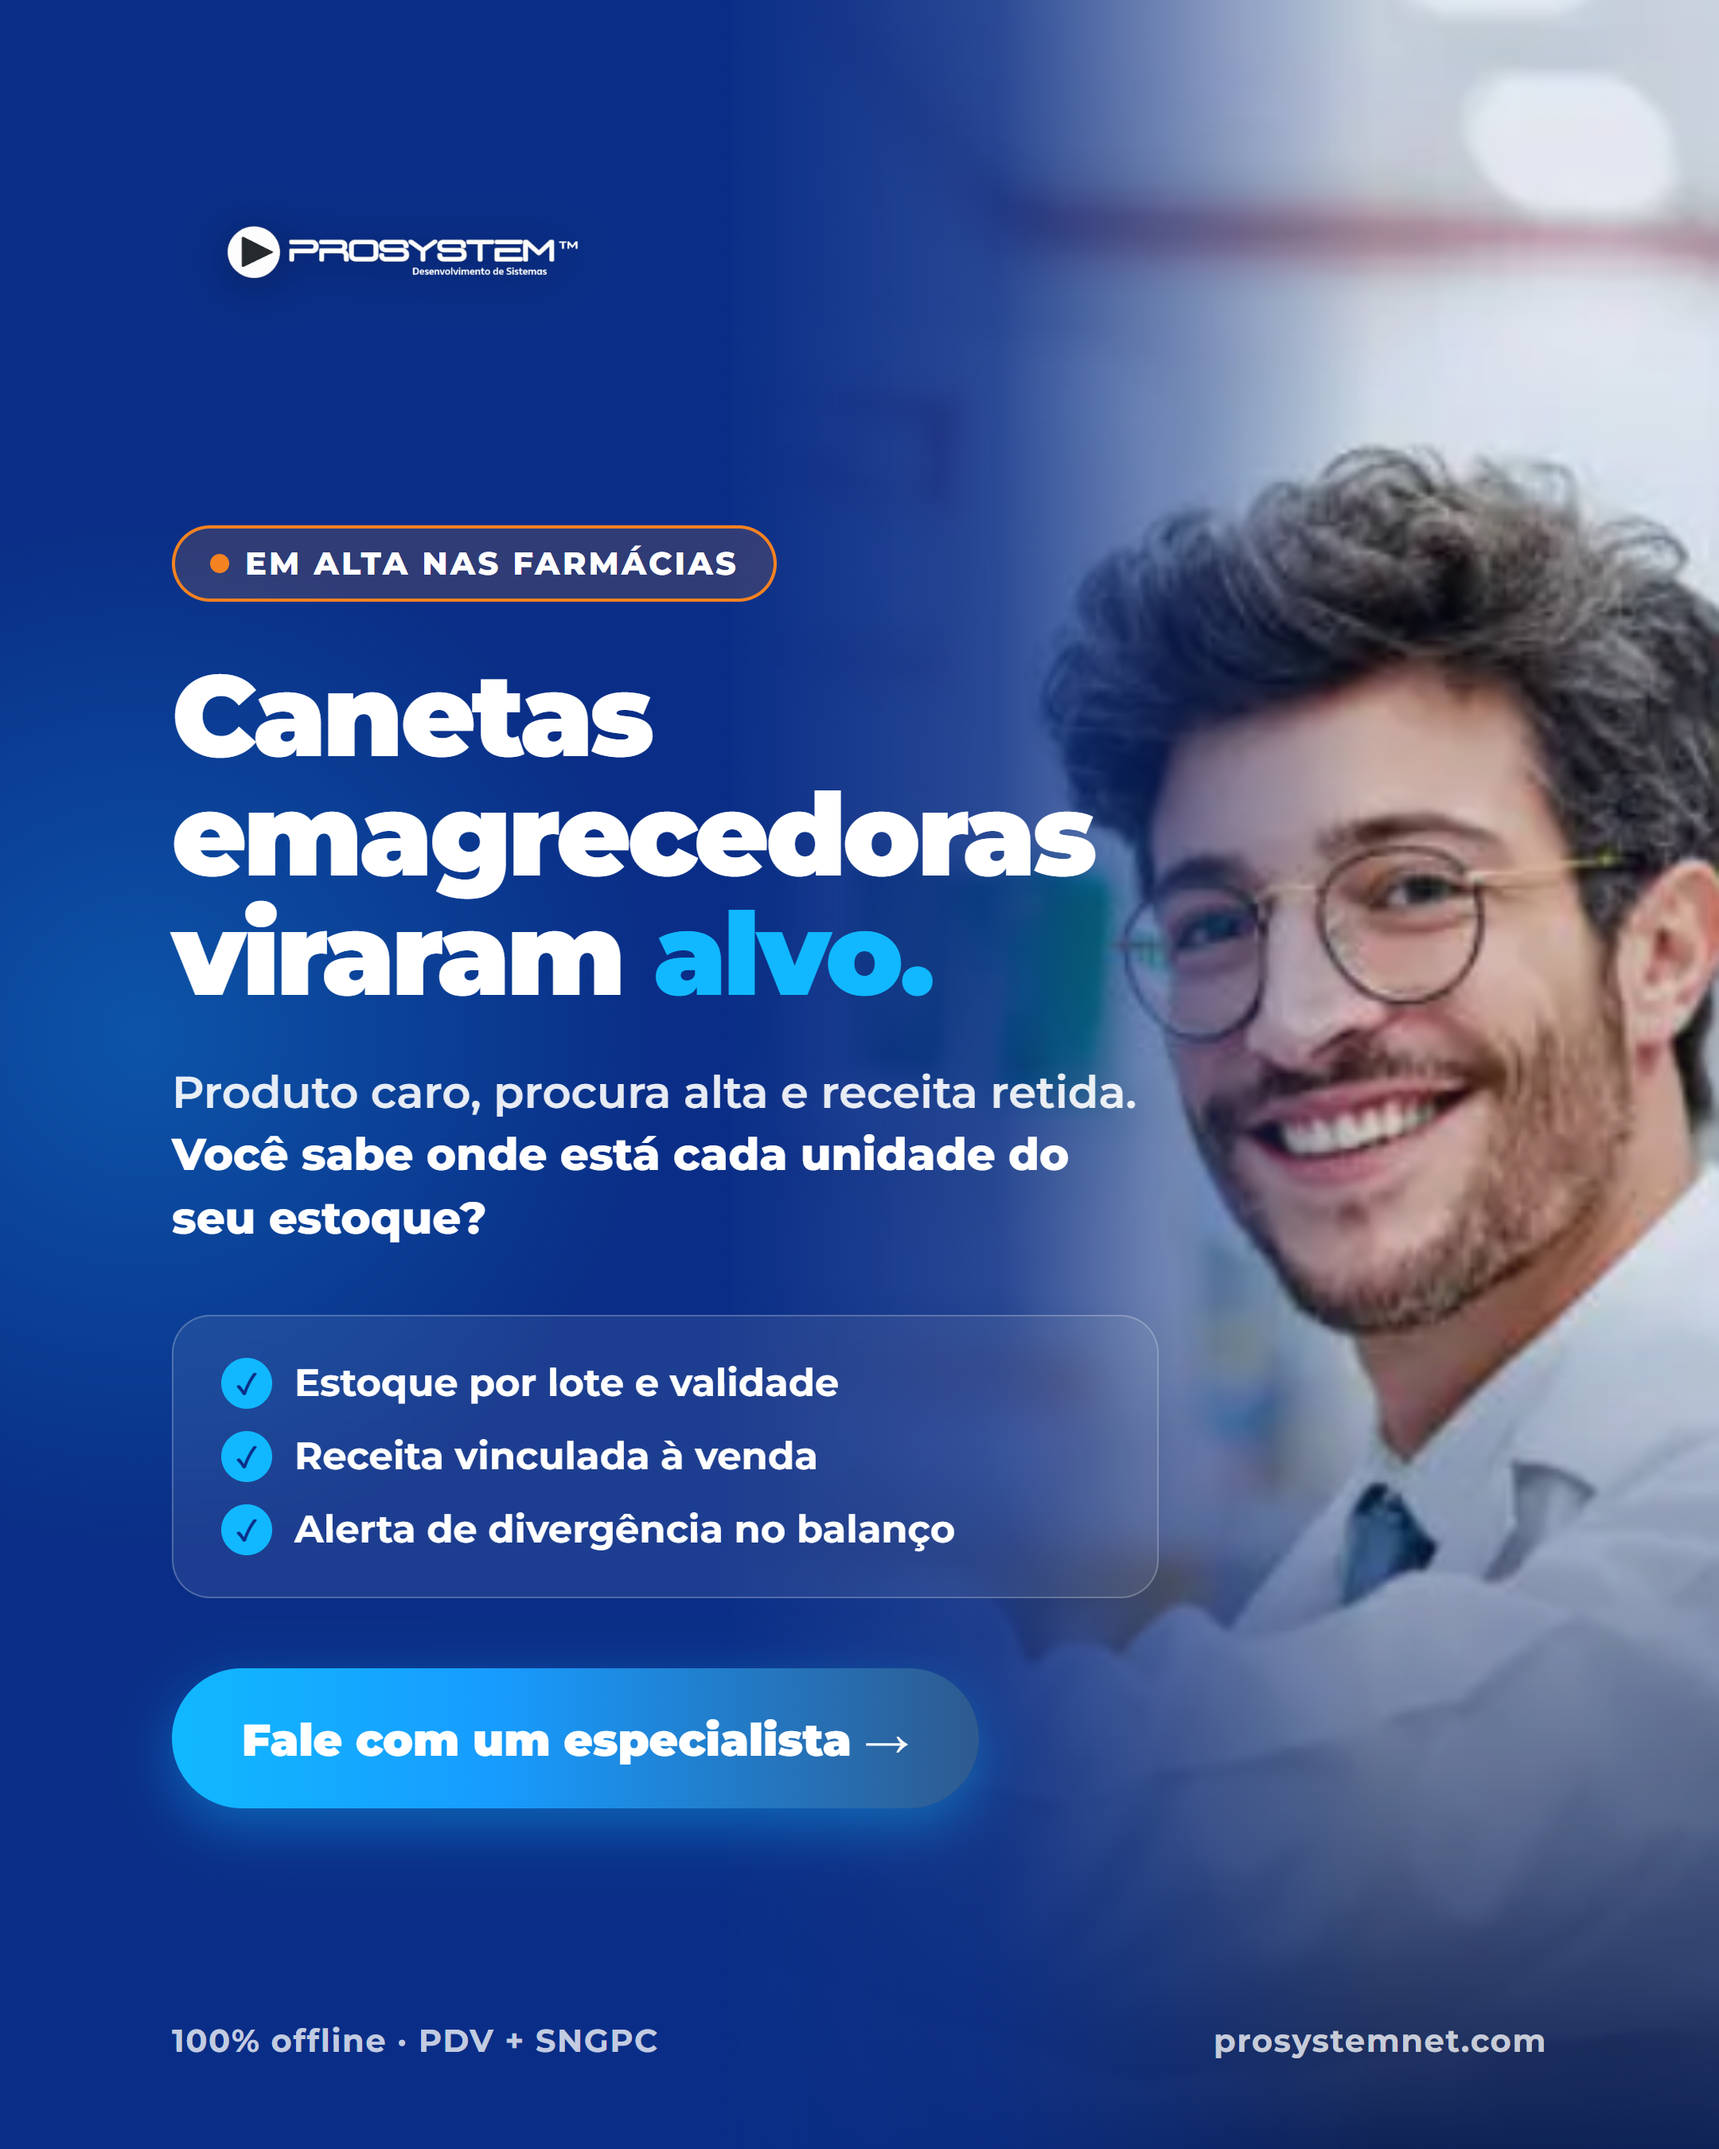
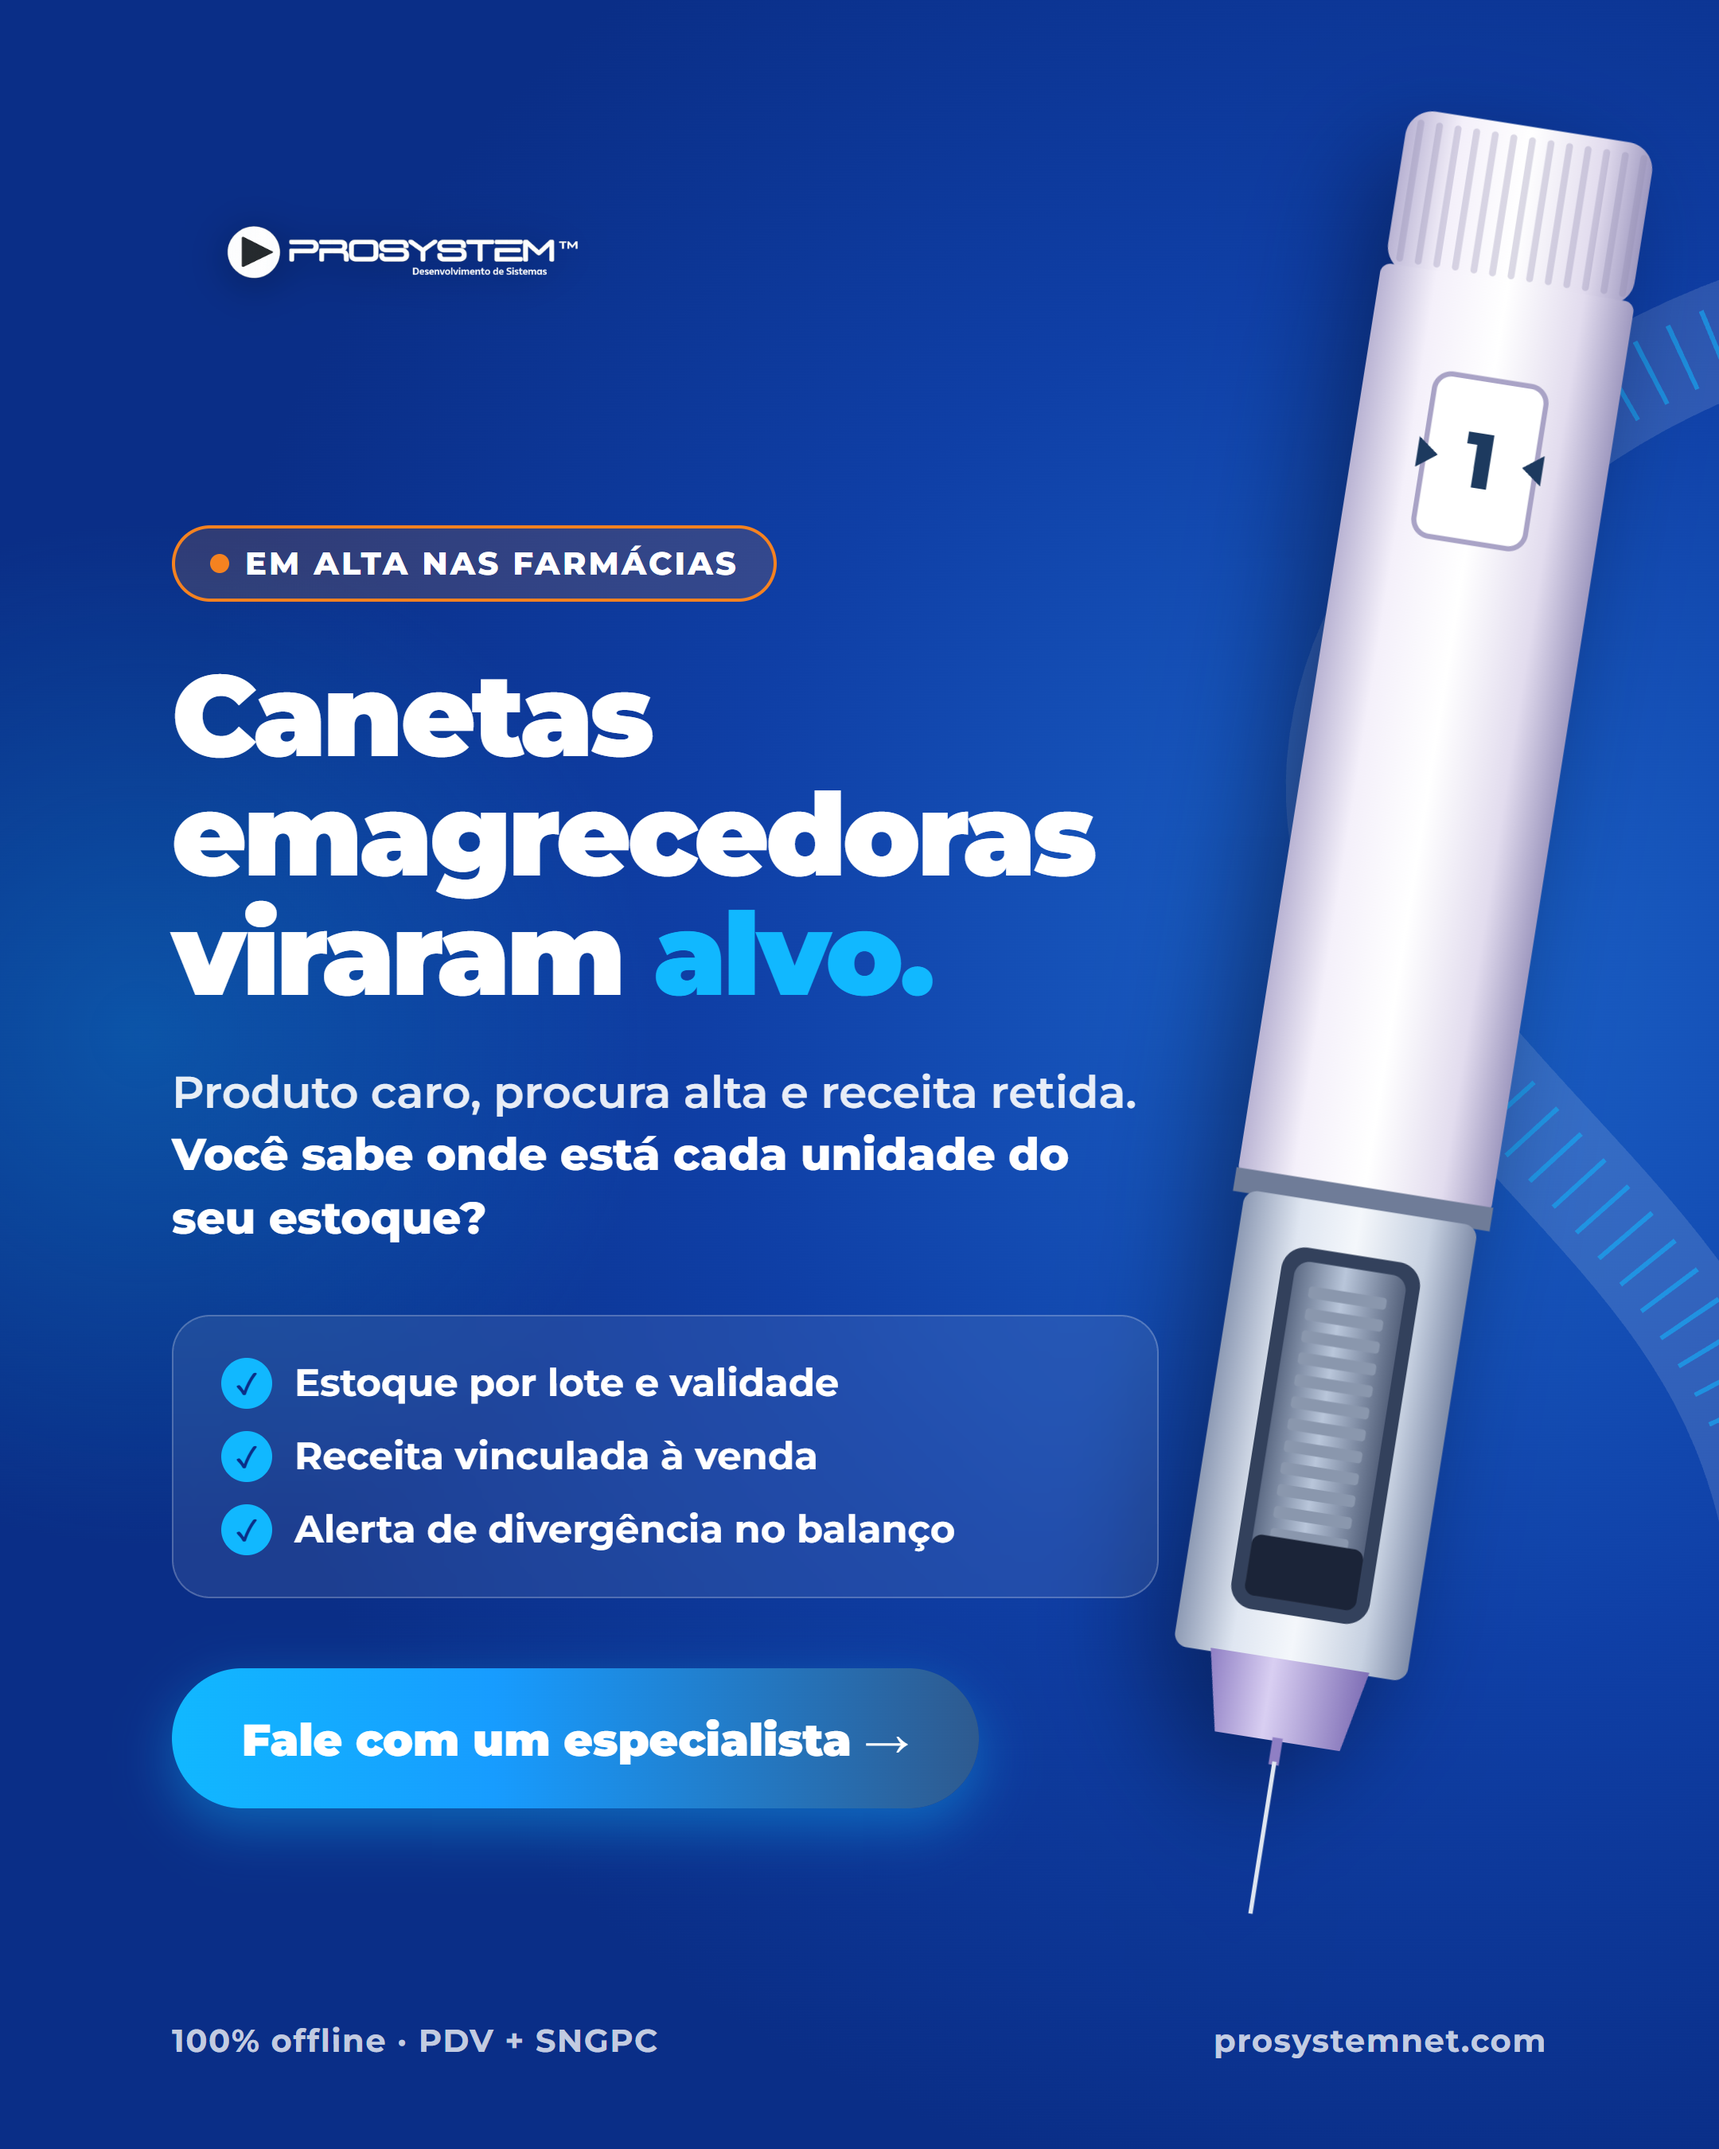
Criativo farmácia: troca foto do farmacêutico por caneta emagrecedora

diff --git a/outputs/criativos/farmacia/tendencia/canetas-emagrecedoras.html b/outputs/criativos/farmacia/tendencia/canetas-emagrecedoras.html
@@ -5,9 +5,9 @@
 *{margin:0;padding:0;box-sizing:border-box}
 body{width:1080px;height:1350px;overflow:hidden;font-family:'Montserrat',sans-serif}
 .ad{width:1080px;height:1350px;position:relative;overflow:hidden;background:#0A2E87}
-.photo{position:absolute;top:0;right:0;width:620px;height:100%;
- background:url('file:///C:/Users/prosy/Desktop/PROJETOS/AUTOMAÇÃO MKT PROSYSTEM/banco imagens/farmacia/20083715_farmaceuti.png.png') 72% center/cover no-repeat}
-.fade{position:absolute;inset:0;background:linear-gradient(90deg,#0A2E87 42%,rgba(10,46,135,.85) 58%,rgba(10,46,135,.1) 80%),linear-gradient(0deg,rgba(6,24,74,.95) 0%,transparent 40%)}
+.ad{background:radial-gradient(circle at 82% 45%,#1B63C9 0%,#0F3FA6 38%,#0A2E87 68%)}
+.tape{position:absolute;inset:0;width:1080px;height:1350px}
+.pen{position:absolute;left:772px;top:62px;height:1160px;transform:rotate(9deg);filter:drop-shadow(-18px 26px 34px rgba(3,14,50,.55))}
 .glow{position:absolute;width:700px;height:700px;border-radius:50%;left:-260px;top:300px;background:radial-gradient(circle,rgba(17,184,255,.28),transparent 65%)}
 .logo{position:absolute;top:64px;left:108px;height:200px;width:auto;filter:drop-shadow(0 4px 14px rgba(0,0,0,.35))}
 .content{position:absolute;left:108px;top:330px;width:620px}
@@ -23,7 +23,27 @@ p strong{color:#fff;font-weight:800}
 .cta{display:inline-flex;align-items:center;gap:16px;background:linear-gradient(90deg,#11B8FF,#179CFF 40%,#2E5A8F);color:#fff;font-weight:900;font-size:28px;padding:24px 44px;border-radius:100px;box-shadow:0 12px 34px rgba(17,184,255,.4)}
 .foot{position:absolute;bottom:56px;left:108px;right:108px;display:flex;justify-content:space-between;color:rgba(255,255,255,.75);font-weight:700;font-size:20px;letter-spacing:.04em}
 </style></head><body><div class="ad">
-<div class="photo"></div><div class="fade"></div><div class="glow"></div>
+<svg class="tape" viewBox="0 0 1080 1350" aria-hidden="true"><path d="M1120 200C900 270 760 470 900 640S1160 860 1120 1180" fill="none" stroke="#fff" stroke-opacity=".13" stroke-width="72"/><path d="M1120 200C900 270 760 470 900 640S1160 860 1120 1180" fill="none" stroke="#11B8FF" stroke-opacity=".55" stroke-width="44" stroke-dasharray="3 19"/></svg><svg class="pen" viewBox="-20 -10 190 1080" xmlns="http://www.w3.org/2000/svg" aria-hidden="true">
+<defs>
+<linearGradient id="b" x1="0" x2="1"><stop offset="0" stop-color="#b9b3d3"/><stop offset=".22" stop-color="#f4f0fa"/><stop offset=".5" stop-color="#ffffff"/><stop offset=".8" stop-color="#e2dcee"/><stop offset="1" stop-color="#9f99c0"/></linearGradient>
+<linearGradient id="g" x1="0" x2="1"><stop offset="0" stop-color="#8d9ab4"/><stop offset=".25" stop-color="#dfe6f1"/><stop offset=".5" stop-color="#f4f7fb"/><stop offset=".8" stop-color="#c7d1e1"/><stop offset="1" stop-color="#7f8ca8"/></linearGradient>
+<linearGradient id="t" x1="0" x2="1"><stop offset="0" stop-color="#8f7fc4"/><stop offset=".4" stop-color="#d9cff2"/><stop offset="1" stop-color="#7f6fb6"/></linearGradient>
+<linearGradient id="c" x1="0" x2="1"><stop offset="0" stop-color="#5d6b85"/><stop offset=".45" stop-color="#b9c6da"/><stop offset="1" stop-color="#55627c"/></linearGradient>
+</defs>
+<rect x="2" y="0" width="146" height="96" rx="16" fill="url(#b)"/><rect x="8" y="6" width="4" height="84" rx="2" fill="#8f8bb0" opacity=".32"/><rect x="19" y="6" width="4" height="84" rx="2" fill="#8f8bb0" opacity=".32"/><rect x="30" y="6" width="4" height="84" rx="2" fill="#8f8bb0" opacity=".32"/><rect x="41" y="6" width="4" height="84" rx="2" fill="#8f8bb0" opacity=".32"/><rect x="52" y="6" width="4" height="84" rx="2" fill="#8f8bb0" opacity=".32"/><rect x="63" y="6" width="4" height="84" rx="2" fill="#8f8bb0" opacity=".32"/><rect x="74" y="6" width="4" height="84" rx="2" fill="#8f8bb0" opacity=".32"/><rect x="85" y="6" width="4" height="84" rx="2" fill="#8f8bb0" opacity=".32"/><rect x="96" y="6" width="4" height="84" rx="2" fill="#8f8bb0" opacity=".32"/><rect x="107" y="6" width="4" height="84" rx="2" fill="#8f8bb0" opacity=".32"/><rect x="118" y="6" width="4" height="84" rx="2" fill="#8f8bb0" opacity=".32"/><rect x="129" y="6" width="4" height="84" rx="2" fill="#8f8bb0" opacity=".32"/><rect x="140" y="6" width="4" height="84" rx="2" fill="#8f8bb0" opacity=".32"/>
+<rect x="0" y="92" width="150" height="540" rx="6" fill="url(#b)"/>
+<rect x="42" y="150" width="66" height="96" rx="10" fill="#fff" stroke="#a9a3c6" stroke-width="3"/>
+<text x="75" y="214" text-anchor="middle" font-family="Montserrat" font-weight="800" font-size="46" fill="#1D3A5F">1</text>
+<path d="M50 198l-12-9v18zM100 198l12-9v18z" fill="#1D3A5F"/>
+<rect x="-1" y="628" width="152" height="14" fill="#6f7c98"/>
+<rect x="6" y="640" width="138" height="270" rx="8" fill="url(#g)"/>
+<rect x="34" y="668" width="82" height="214" rx="14" fill="#33415c"/>
+<rect x="42" y="676" width="66" height="198" rx="9" fill="url(#c)"/><rect x="52" y="690" width="46" height="7" rx="2" fill="#8a97ad"/><rect x="52" y="703" width="46" height="7" rx="2" fill="#8a97ad"/><rect x="52" y="716" width="46" height="7" rx="2" fill="#8a97ad"/><rect x="52" y="729" width="46" height="7" rx="2" fill="#8a97ad"/><rect x="52" y="742" width="46" height="7" rx="2" fill="#8a97ad"/><rect x="52" y="755" width="46" height="7" rx="2" fill="#8a97ad"/><rect x="52" y="768" width="46" height="7" rx="2" fill="#8a97ad"/><rect x="52" y="781" width="46" height="7" rx="2" fill="#8a97ad"/><rect x="52" y="794" width="46" height="7" rx="2" fill="#8a97ad"/><rect x="52" y="807" width="46" height="7" rx="2" fill="#8a97ad"/><rect x="52" y="820" width="46" height="7" rx="2" fill="#8a97ad"/><rect x="52" y="833" width="46" height="7" rx="2" fill="#8a97ad"/><rect x="52" y="846" width="46" height="7" rx="2" fill="#8a97ad"/>
+<rect x="42" y="838" width="66" height="36" rx="6" fill="#1b2438"/>
+<path d="M28 908h94l-10 48H38z" fill="url(#t)"/>
+<rect x="72" y="954" width="6" height="16" fill="#8f7fc4"/>
+<rect x="74" y="968" width="2.5" height="90" fill="#dfe6f1"/>
+</svg><div class="glow"></div>
 <img class="logo" src="file:///C:/Users/prosy/Documents/mkt reuniao 1/squads/@squad-design/criativos-estaticos/_assets/logo-light.png" alt="ProSystem">
 <div class="content">
  <div class="tag"><i></i>Em alta nas farmácias</div>

diff --git a/docs/contexto/relatorios/2026-10-30-criativo-caneta-emagrecedora.md b/docs/contexto/relatorios/2026-10-30-criativo-caneta-emagrecedora.md
@@ -1,0 +1,26 @@
+# Criativo de farmácia: troca da foto pela caneta emagrecedora
+
+## Pedido
+"Mude a imagem do farmacêutico para um modelo de caneta emagrecedora", com imagem de referência colada na conversa (caneta de semaglutida nacional, lilás, com fita métrica) e "não mude o restante do criativo, apenas isso".
+
+## Feito
+- `outputs/criativos/farmacia/tendencia/canetas-emagrecedoras.html`: saiu a foto e o degradê sobre ela; entrou a caneta desenhada em SVG, uma fita decorativa ciano e um fundo azul radial no lugar que era da foto.
+- `outputs/criativos/farmacia/tendencia/canetas-emagrecedoras.png`: exportado de novo em 1080×1350 (escala 2x).
+- Texto, logo, selo, card, botão e rodapé não foram alterados.
+
+## Verificado
+- PNG aberto e conferido: caneta não encosta no card nem no botão; fita não passa sob o rodapé.
+- `git diff` do HTML: alterações só no CSS e nos elementos da imagem/fundo.
+- Não verificado: aprovação da Jessica; envio ao Meta Ads (não foi publicado).
+
+## Decisões e porquês
+- Caneta desenhada, porque a imagem colada não ficou salva como arquivo no computador e não pôde ser usada direto. O desenho segue a referência, sem marca e sem o texto dela.
+- Fita em ciano, não amarela como na referência: amarelo é proibido na paleta ProSystem.
+- Fotos do Unsplash descartadas: as de produto têm rótulo em holandês ("injectie") e as de pessoas mostram uso/aplicação.
+
+## Pendente
+- Jessica decide se aprova o desenho ou prefere a foto de referência (precisa salvar o arquivo na pasta e confirmar o direito de uso).
+- Comercial confirma os itens do card, em especial "Receita vinculada à venda" (pendência anterior).
+
+## Próxima sessão
+Se vier a foto, trocar o `<svg class="pen">` por ela no HTML e reexportar com puppeteer (modelo em `outputs/criativos/exportar-farma-bofu.js`). Skill sugerida: nenhuma específica.
